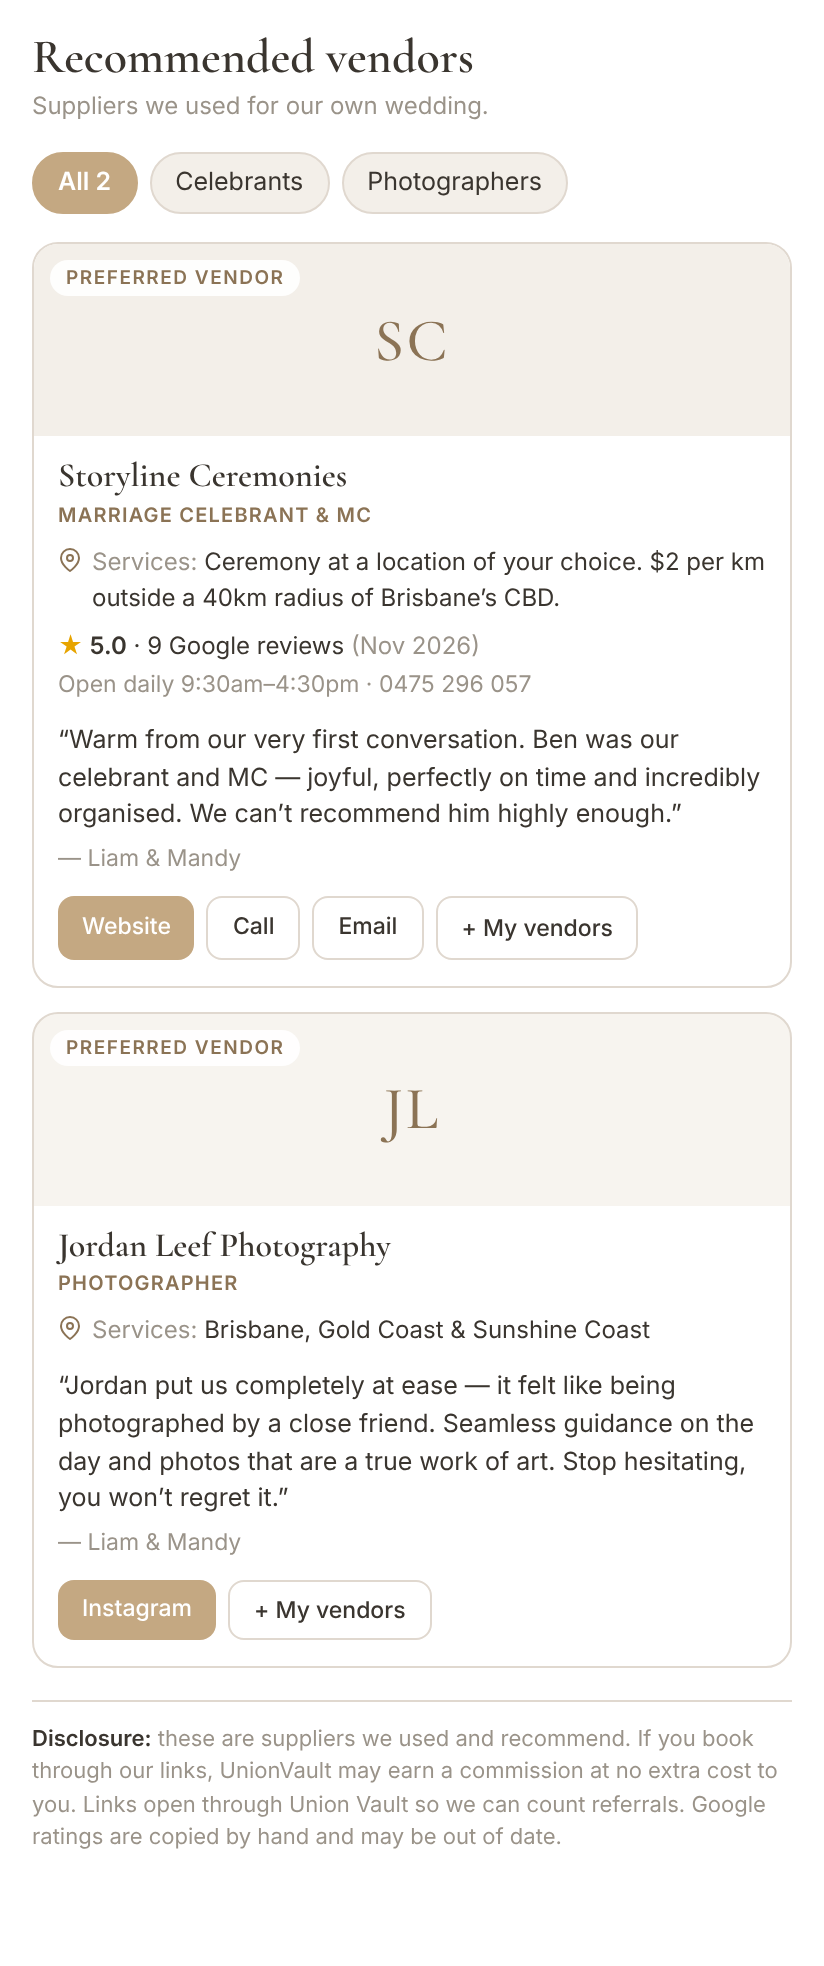
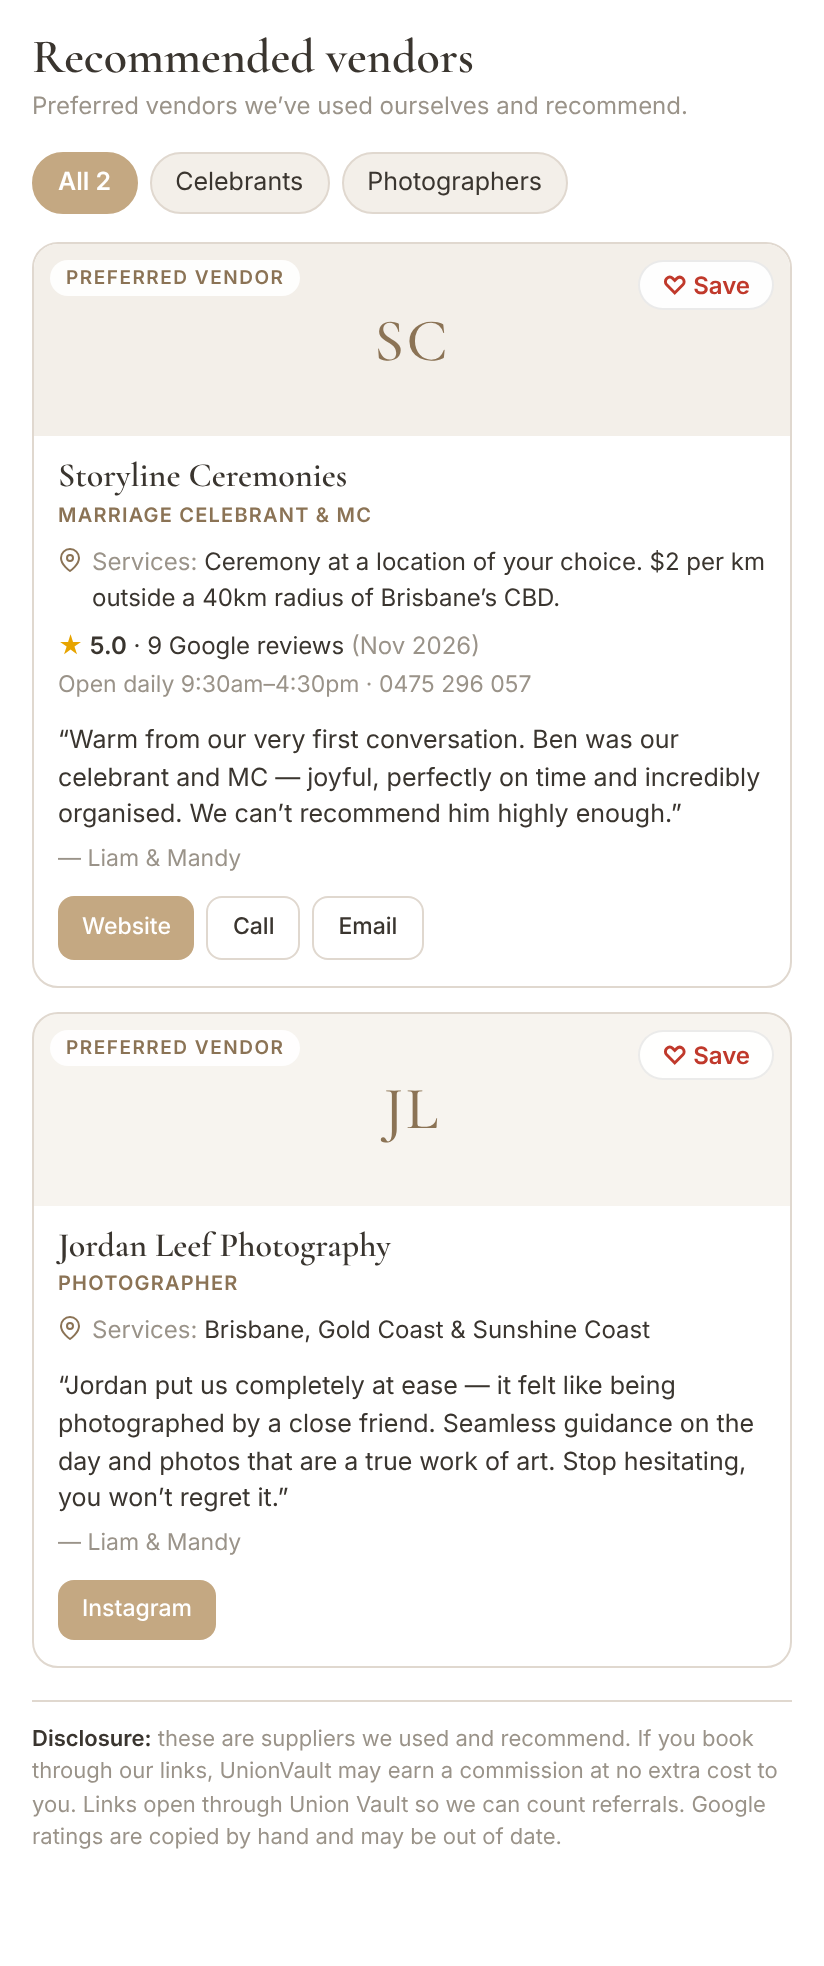
Vendors: Save button moved to the card header as a heart pill (v512.5)
Claude-Session: https://claude.ai/code/session_019ebu8yvW7sYrHwDzmKtRqL

diff --git a/js/invitations.js b/js/invitations.js
@@ -565,6 +565,7 @@ function _vluCardHtml(v){
     <div class="vlu-hero${_vluAlt(v.id)?' alt':''}" style="height:96px">
       <span class="vlu-mono">${_escHtml(v.mono||_vluInitials(v.name))}</span>
       <span style="position:absolute;top:8px;left:8px;font-size:9.5px;letter-spacing:.08em;text-transform:uppercase;background:rgba(255,255,255,.9);color:var(--gold-deep);border-radius:9px;padding:2px 8px;font-weight:600">${_escHtml(v.tag)}</span>
+      <button type="button" class="vlu-save${saved?' saved':''}" title="${saved?'In your vendor list':'Save to your vendor list'}" aria-label="${saved?'In your vendor list':'Save to your vendor list'}" onclick="_vluSaveAsk('${v.id}')">${saved?'\u2665 Saved':'\u2661 Save'}</button>
     </div>
     <div class="vlu-cbody">
       <p class="vlu-name">${_escHtml(v.name)}</p>
@@ -576,7 +577,6 @@ function _vluCardHtml(v){
       <div style="display:flex;gap:6px;flex-wrap:wrap;margin-top:10px">
         ${btn('Website','website',first==='website')}${btn('Instagram','instagram',first==='instagram')}${btn('Contact form','contact',false)}${btn('Book online','book',false)}
         ${v.phone?`<a class="btn btn-outline btn-sm" style="font-size:11.5px;text-decoration:none" href="tel:${_escHtml(v.phone.replace(/\s+/g,''))}" onclick="_vluPing('${v.id}','call')">Call</a>`:''}${v.email?`<a class="btn btn-outline btn-sm" style="font-size:11.5px;text-decoration:none" href="mailto:${_escHtml(v.email)}" onclick="_vluPing('${v.id}','email')">Email</a>`:''}
-        <button class="btn btn-outline btn-sm" style="font-size:11.5px" onclick="_vluSaveAsk('${v.id}')">${saved?'\u2713 In my vendors':'+ My vendors'}</button>
       </div>
     </div>
   </div>`;

diff --git a/css/app.css b/css/app.css
@@ -2552,6 +2552,11 @@ body.dark .vlu-rcat{color:var(--gold)}
 .vlu-rsub{font-size:11px;color:var(--muted);margin:4px 0 0;display:flex;gap:12px;flex-wrap:wrap}
 .vlu-rright{flex-shrink:0;display:flex;flex-direction:column;align-items:flex-end;gap:6px}
 .vlu-ravail{font-size:9.5px;font-weight:600;padding:3px 9px;border-radius:11px;background:rgba(74,124,89,.14);color:var(--green);white-space:nowrap}
+.vlu-save{position:absolute;top:8px;right:8px;display:inline-flex;align-items:center;gap:4px;padding:4px 11px;border-radius:14px;border:1px solid rgba(0,0,0,.08);background:rgba(255,255,255,.92);color:var(--red);font:600 12px 'Inter',sans-serif;cursor:pointer;transition:transform .12s}
+.vlu-save:hover{transform:scale(1.05)}
+.vlu-save.saved{background:var(--red);border-color:var(--red);color:#fff}
+body.dark .vlu-save{background:rgba(20,20,24,.8);border-color:rgba(255,255,255,.12)}
+body.dark .vlu-save.saved{background:var(--red);color:#fff}
 .vlu-heart-sm{font-size:15px;color:var(--red);cursor:pointer;background:none;border:none;padding:0;line-height:1}
 
 .vlu-empty{text-align:center;padding:46px 20px;color:var(--muted);border:.5px solid var(--border);border-radius:12px}

diff --git a/js/autocomplete.js b/js/autocomplete.js
@@ -146,7 +146,7 @@ function _acPick(inputId, name){
 // can land a launch late — and there was previously NO way to tell which build was
 // actually running. Diagnosing "I uploaded it but nothing changed" meant hunting for
 // whether a feature happened to appear. Bump this with every release.
-const APP_BUILD='v512.4';
+const APP_BUILD='v512.5';
 const APP_BUILD_DATE='2026-11-08';
 function _seatingPrintHtml(forPreview){
   const ev=STATE.event||{};

diff --git a/sw.js b/sw.js
@@ -1,4 +1,4 @@
-const CACHE = 'union-vault-v512.4';
+const CACHE = 'union-vault-v512.5';
 const SHELL = [
   '/', '/index.html',
   '/css/fonts.css', '/css/app.css', '/css/landing.css', '/css/setup-wizard.css',
